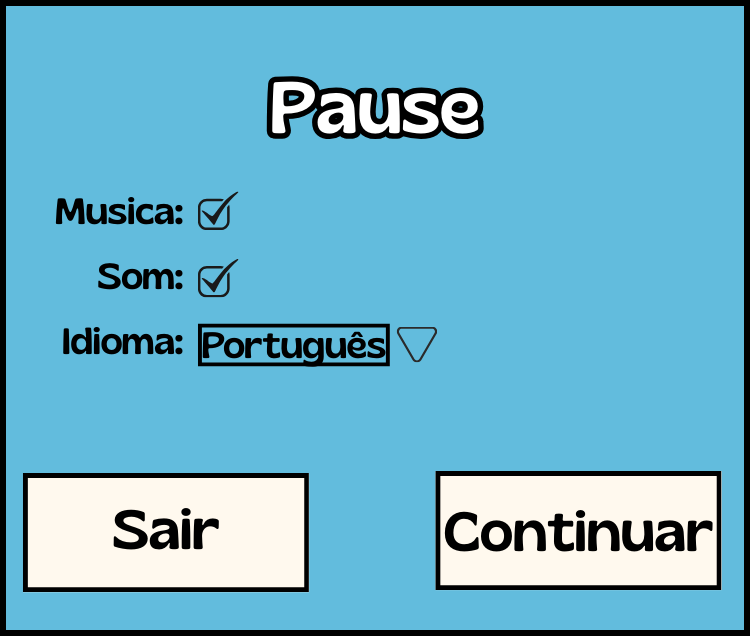
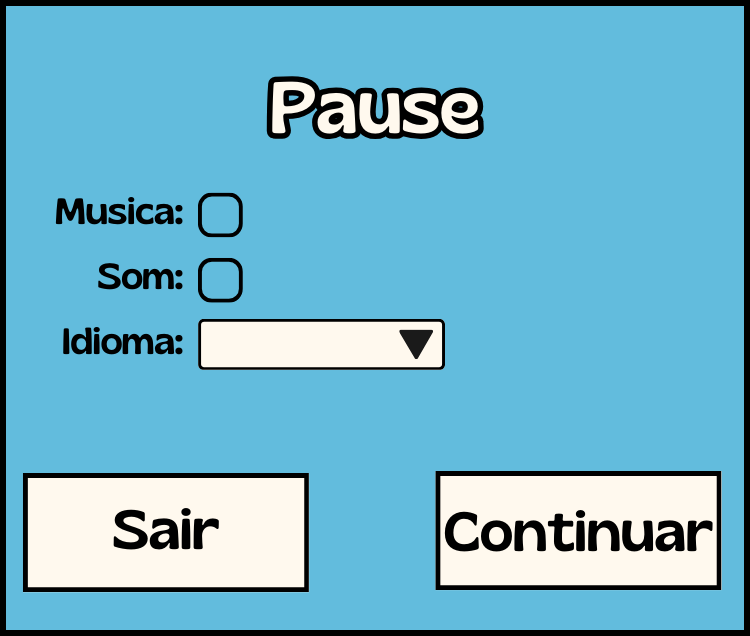
add: seleção de idioma, parametros transferidos para o config.py

Changed region(s): [[0.2453, 0.2987, 0.6133, 0.5975]]

diff --git a/Particoes/pause.py b/Particoes/pause.py
@@ -1,15 +1,15 @@
 import pygame, sys
 from pygame.locals import *
-from Particoes.classes import bolinhas
+import config
+
 
 def pausar(screen, clock):
     window_width, window_height = screen.get_size()
 
     # Cores
-    WHITE = (255, 255, 255)
     BLACK = (0, 0, 0)
     GRAY = (200, 200, 200)
-    BLUE = (0, 0, 255)
+    RED = (255, 0, 0)
 
     # Background cinza e transparente
     background_p = pygame.Surface((window_width, window_height), pygame.SRCALPHA)
@@ -32,13 +32,12 @@ def pausar(screen, clock):
 
     # Controle deslizante CIRCULAR
     handle_radius_m = 15
-    handle_center_m = [slider_x_m + 180, slider_y_m + slider_height_m//2]
+    handle_center_m = [((config.volume_m/100)*slider_width_m) + slider_x_m , slider_y_m + slider_height_m//2]
 
     # Sombreamento do slider
     hover_slider_rect_m = pygame.Rect((slider_x_m, slider_y_m), (handle_center_m[0]-slider_x_m, slider_height_m))
 
     # Valor do slider
-    slider_value_m = 50
     dragging_m = False
 
     ## SLIDER SOM
@@ -51,20 +50,37 @@ def pausar(screen, clock):
 
     # Controle deslizante CIRCULAR
     handle_radius_s = 15
-    handle_center_s = [slider_x_s + 180, slider_y_s + slider_height_s//2]
+    handle_center_s = [((config.volume_s/100)*slider_width_s) + slider_x_s, slider_y_s + slider_height_s//2]
 
     # Sombreamento do slider
     hover_slider_rect_s = pygame.Rect((slider_x_s, slider_y_s), (handle_center_s[0]-slider_x_s, slider_height_s))
 
     # Valor do slider
-    slider_value_s = 50
     dragging_s = False
+
+    ## CHECK BOX
+    check_box = pygame.transform.scale(pygame.image.load(f"Imagens/check.png"), (45, 45))
+
+    # Rect botão de música e som
+    rect_musica = pygame.Rect((463, 276), (45, 45))
+    rect_som = pygame.Rect((463, 341), (45, 45))
 
     # Fonte
     try:
         font = pygame.font.Font("Fontes/gliker-regular.ttf", 36)
+        mini_font = pygame.font.Font("Fontes/gliker-regular.ttf", 25)
     except:
         font = pygame.font.SysFont("arial", 36, bold=True)
+        mini_font = pygame.font.SysFont("arial", 25, bold=True)
+
+    # Idioma
+    menu_idioma = pygame.transform.scale(pygame.image.load(f"Imagens/pause_menu_idioma.png"), (750, 636))
+    rect_idioma = pygame.Rect((463, 403), (247, 52))
+    rect_portugues = pygame.Rect((463, 454), (247, 45))
+    rect_ingles = pygame.Rect((463, 498), (247, 45))
+    rect_espanhol = pygame.Rect((463, 543), (247, 45))
+    idioma_indispoivel = mini_font.render(f"Idioma indisponível", True, RED)
+    selecionando_idioma = False
 
     
     ## FUNÇÕES
@@ -87,7 +103,7 @@ def pausar(screen, clock):
 
         pygame.draw.circle(screen, BLACK, handle_center_m, handle_radius_m)
 
-        value_text = font.render(f"{slider_value_m}", True, BLACK)
+        value_text = font.render(f"{config.volume_m}", True, BLACK)
         screen.blit(value_text, (slider_x_m + slider_width_m + 20, slider_y_m-15))
 
         # Slider som
@@ -97,20 +113,18 @@ def pausar(screen, clock):
 
         pygame.draw.circle(screen, BLACK, handle_center_s, handle_radius_s)
 
-        value_text = font.render(f"{slider_value_s}", True, BLACK)
+        value_text = font.render(f"{config.volume_s}", True, BLACK)
         screen.blit(value_text, (slider_x_s + slider_width_s + 20, slider_y_s-15))
 
     def update_m_slider_value():
         """Atualiza o valor da música"""
-        nonlocal slider_value_m
-        slider_value_m = int(((handle_center_m[0] - slider_x_m) / slider_width_m) * 100)
-        slider_value_m = max(0, min(100, slider_value_m))
+        config.volume_m = int(((handle_center_m[0] - slider_x_m) / slider_width_m) * 100)
+        config.volume_m = max(0, min(100, config.volume_m))
         
     def update_s_slider_value():
         """Atualiza o valor do som"""
-        nonlocal slider_value_s
-        slider_value_s = int(((handle_center_s[0] - slider_x_s) / slider_width_s) * 100)
-        slider_value_s = max(0, min(100, slider_value_s))
+        config.volume_s = int(((handle_center_s[0] - slider_x_s) / slider_width_s) * 100)
+        config.volume_s = max(0, min(100, config.volume_s))
 
     ticking = 60
     p_running = True
@@ -123,35 +137,70 @@ def pausar(screen, clock):
         else:
             ticking = 0
 
-        screen.blit(menu_pause, (265, 84))
+        if selecionando_idioma:
+            screen.blit(menu_idioma, (265, 84))
+        else:
+            screen.blit(menu_pause, (265, 84))
+
+        texto_idioma = font.render(config.idioma, True, BLACK)
+        screen.blit(texto_idioma, (470, 405)) 
+        if config.idioma != "Português":
+            screen.blit(idioma_indispoivel, (725, 410)) 
+
+        if config.musica_on:
+            screen.blit(check_box, (463, 276))
+        if config.som_on:
+            screen.blit(check_box, (463, 341))
+        
 
         for event in pygame.event.get():
             if event.type == KEYDOWN and event.key == K_ESCAPE: # Apertou Esc
                 pausado = False
 
-            if event.type == MOUSEBUTTONDOWN and event.button == 1:  # Clique com botão esquerdo
-                # Botão de sair
-                if rect_sair.collidepoint(event.pos):
-                    pausado = False
-                    p_running = False
-                
-                #   Botão de continuar
-                if rect_continuar.collidepoint(event.pos): 
-                    pausado = False
-
+            if event.type == MOUSEBUTTONDOWN and event.button == 1:  # Clique com botão esquerdo        
                 # Colisão circular com os sliders
                 mouse_x, mouse_y = event.pos
                 distance_m = ((mouse_x - handle_center_m[0])**2 + (mouse_y - handle_center_m[1])**2)**0.5
                 distance_s = ((mouse_x - handle_center_s[0])**2 + (mouse_y - handle_center_s[1])**2)**0.5
 
+                # Seleção de idioma
+                if rect_portugues.collidepoint(event.pos) and selecionando_idioma:
+                    config.idioma = "Português"
+                elif rect_ingles.collidepoint(event.pos) and selecionando_idioma:
+                    config.idioma = "English"
+                elif rect_espanhol.collidepoint(event.pos) and selecionando_idioma: 
+                    config.idioma = "Español"   
+
+                # Botão de sair
+                elif rect_sair.collidepoint(event.pos):
+                    pausado = False
+                    p_running = False
+                
+                # Botão de continuar
+                elif rect_continuar.collidepoint(event.pos): 
+                    pausado = False
+
+                # Check box de música
+                elif rect_musica.collidepoint(event.pos):
+                    config.musica_on = False if config.musica_on else True
+                # Check box de som
+                elif rect_som.collidepoint(event.pos):
+                    config.som_on = False if config.som_on else True
+
                 # Slider de música
-                if distance_m <= handle_radius_m:
+                elif distance_m <= handle_radius_m:
                     dragging_m = True
 
                 # Slider de som
-                if distance_s <= handle_radius_s:
-                    dragging_s = True    
+                elif distance_s <= handle_radius_s:
+                    dragging_s = True
 
+                # Botão de idioma
+                if rect_idioma.collidepoint(event.pos) and not selecionando_idioma:
+                    selecionando_idioma = True
+                else:
+                    selecionando_idioma = False
+                
             elif event.type == MOUSEBUTTONUP and event.button == 1: # Soltou o botão esquerdo
                 dragging_m = False
                 dragging_s = False
@@ -159,6 +208,7 @@ def pausar(screen, clock):
             elif event.type == MOUSEMOTION: # Movimentou o mouse
                 # Segurando o slider de música
                 if dragging_m:
+                    config.musica_on = True
                     mouse_x = event.pos[0]
                     new_x = max(slider_x_m, min(slider_x_m + slider_width_m, mouse_x))
                     handle_center_m[0] = new_x
@@ -167,6 +217,7 @@ def pausar(screen, clock):
 
                 # Segurando o slider de som
                 if dragging_s:
+                    config.som_on = True
                     mouse_x = event.pos[0]
                     new_x = max(slider_x_s, min(slider_x_s + slider_width_s, mouse_x))
                     handle_center_s[0] = new_x

diff --git a/config.py b/config.py
@@ -5,3 +5,8 @@ window_width = int(pygame.display.Info().current_w)
 window_height = int(pygame.display.Info().current_h)
 screen = pygame.display.set_mode((window_width, window_height))
 clock = pygame.time.Clock()
+idioma = "Português"
+musica_on = True
+som_on = True
+volume_m = 50
+volume_s = 50
